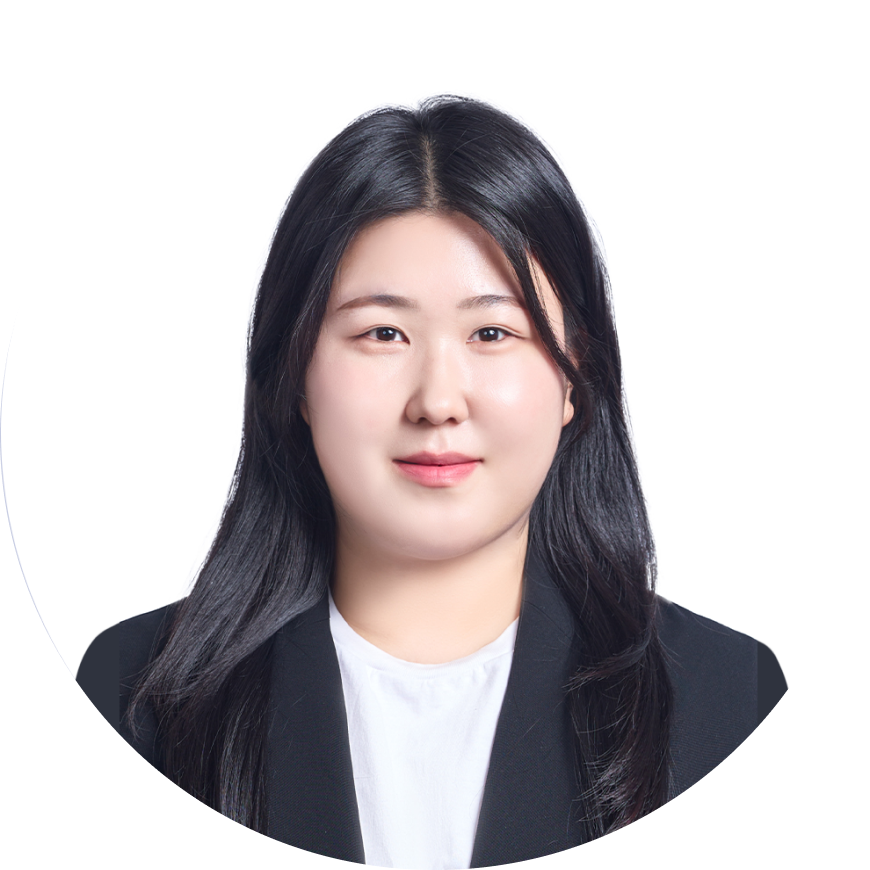
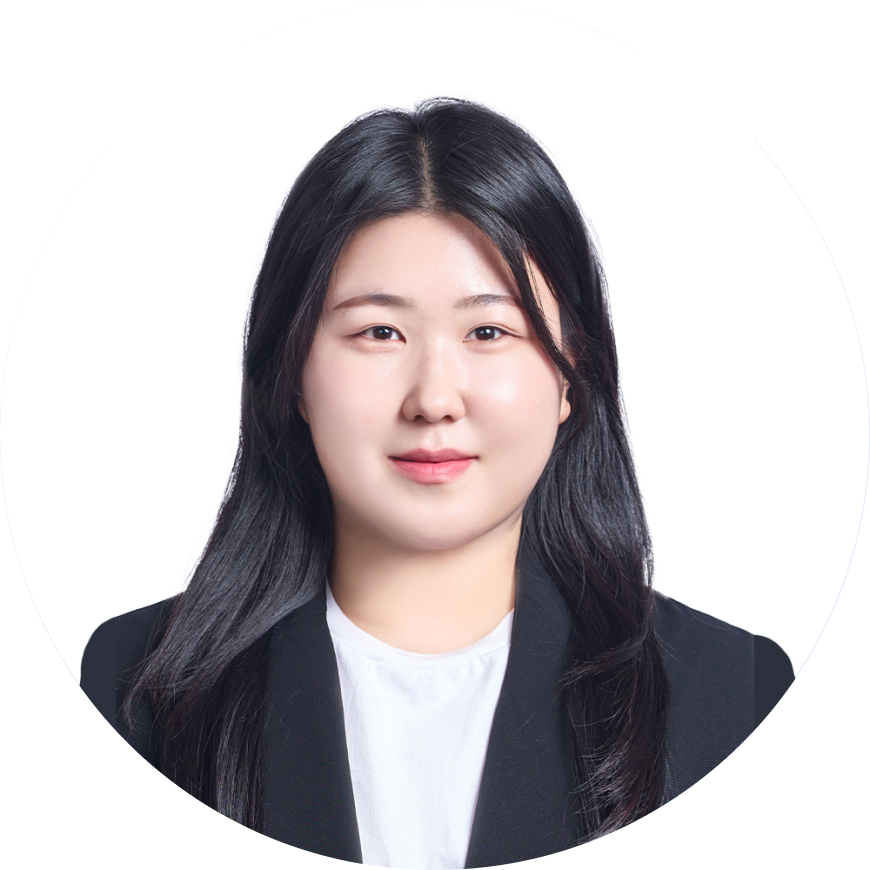
2024.04.04 4:26

diff --git a/css/style.scss b/css/style.scss
@@ -10,7 +10,7 @@
 }
 
 #wrap {
-    background: url(../img/BG.png) center / cover no-repeat;
+    background: url(../img/BG.png) center / 100% no-repeat;
     background-attachment: fixed;
 }
 

diff --git a/css/style.css b/css/style.css
@@ -9,7 +9,7 @@
 }
 
 #wrap {
-  background: url(../img/BG.png) center/cover no-repeat;
+  background: url(../img/BG.png) center/100% no-repeat;
   background-attachment: fixed;
 }
 
